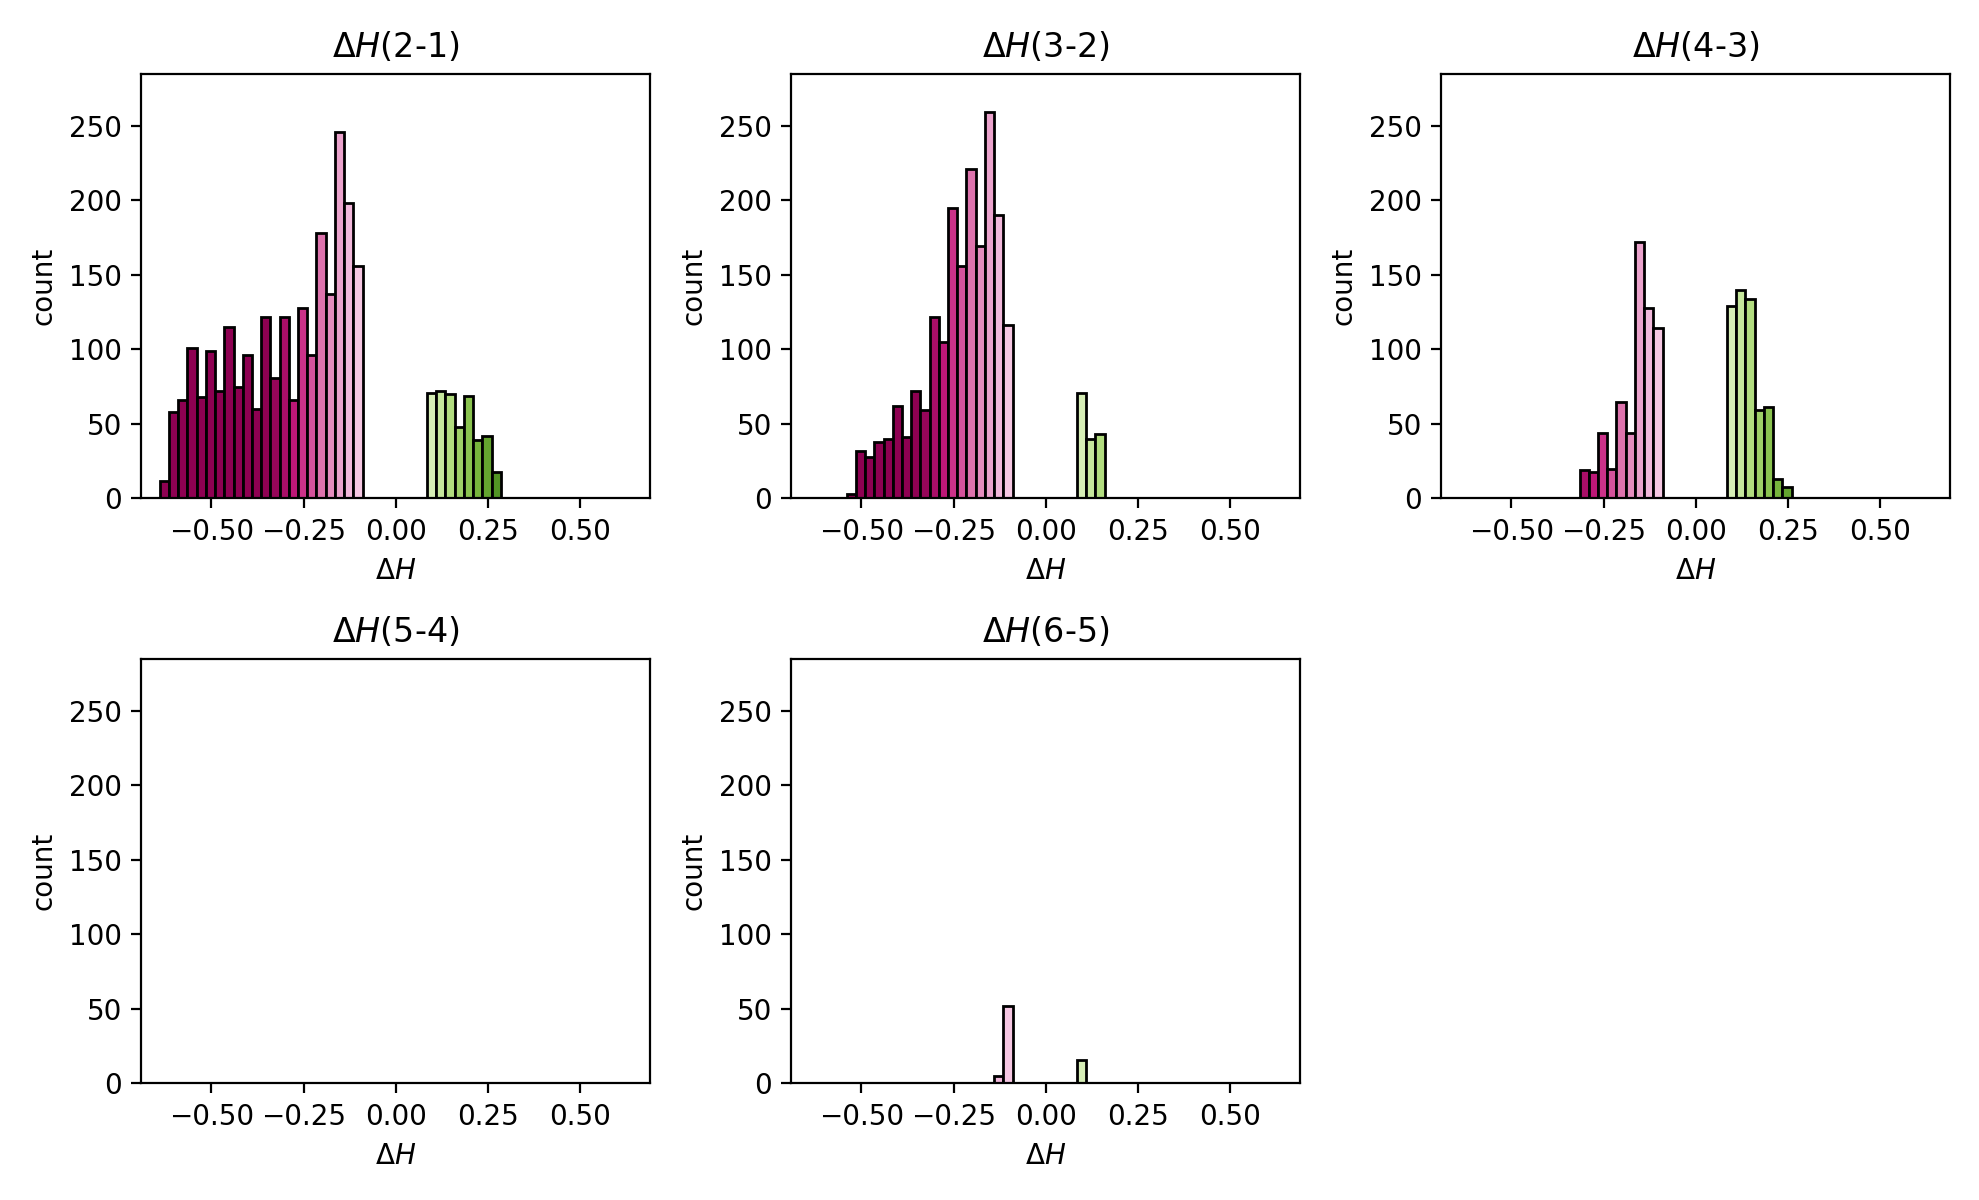
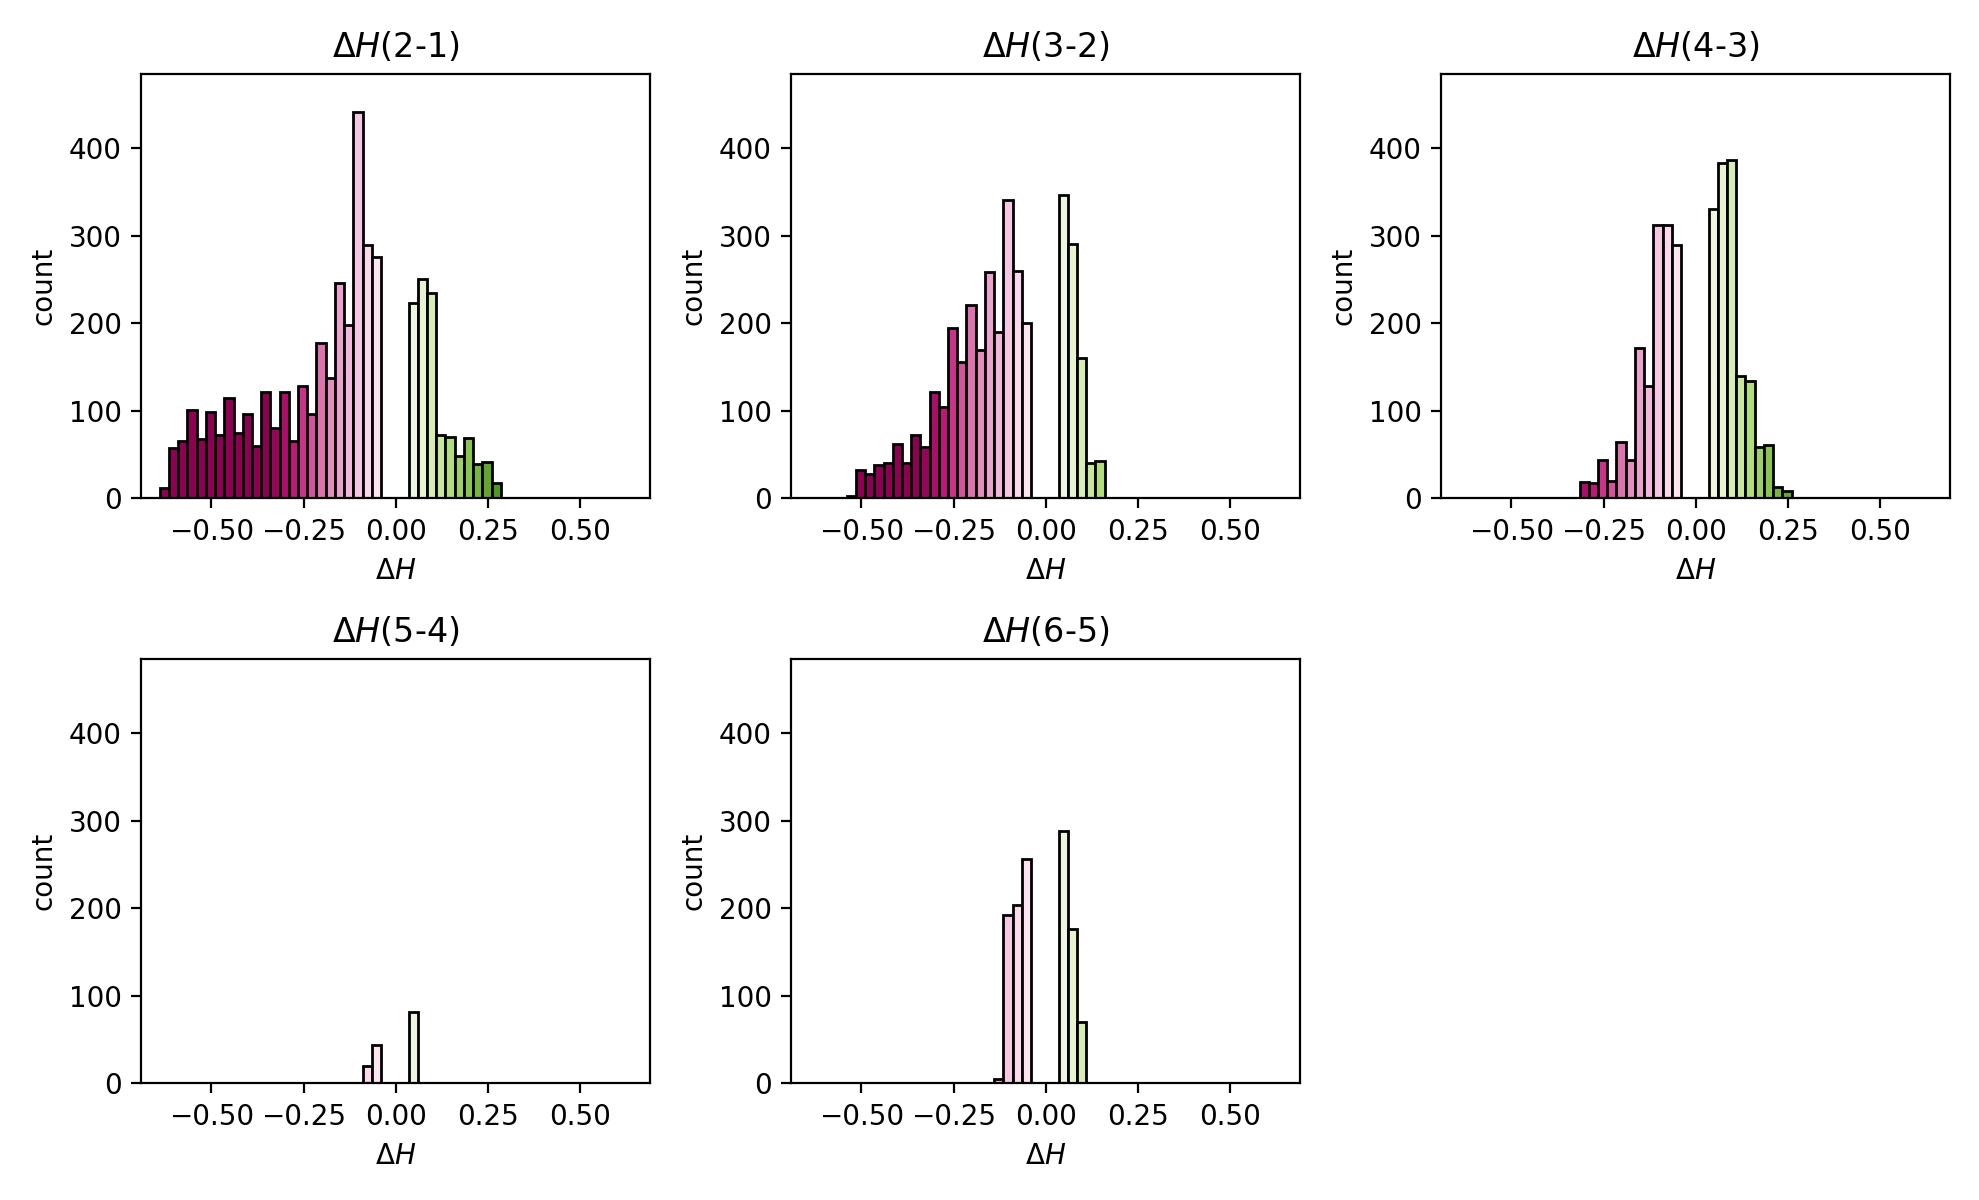
changed dropout treshold and visualization of the trends

diff --git a/experiments/0.Asp250_Lys100_manual_experiment/dropout_metric.py b/experiments/0.Asp250_Lys100_manual_experiment/dropout_metric.py
@@ -24,7 +24,7 @@ pdf_file_template = '/cycles/cycle_{}/'+experimentID+'_cycle{}_output_points_pdf
 entropy_decimals = 2
 x_min, x_max = -0.69, 0.69  # Adjustable range
 bin_size = 0.025  # Adjustable bin size
-exclude_min, exclude_max = -0.1, 0.1 # Define exclusion range (e.g., from -0.1 to 0.1)
+exclude_min, exclude_max = -0.05, 0.05 # Define exclusion range (e.g., from -0.1 to 0.1)
 cmap = cm.get_cmap('PiYG')
 
 # --- main
@@ -98,7 +98,7 @@ if __name__ == '__main__':
         ax[i].set_ylabel('count')
         ax[i].set_xlabel(r'$\Delta H$')
     fig.tight_layout()
-    fig.savefig('delta_h_histograms.png')
+    fig.savefig(CYCLES_DIR+'delta_h_histograms.png')
 
     ax1.plot(np.arange(n_plots), neg_h_list, ls='-', c=cmap(0.05), label=r'$H(\downarrow)$')
     ax1.plot(np.arange(n_plots), pos_h_list, ls='--', c=cmap(0.85), label=r'$H(\uparrow)$')
@@ -110,6 +110,6 @@ if __name__ == '__main__':
     ax1.grid(ls='--', alpha=.5)
     ax1.legend()
     fig1.tight_layout()
-    fig1.savefig('delta_h_trend.png')
+    fig1.savefig(CYCLES_DIR+'delta_h_trend.png')
 
     # plt.show()
